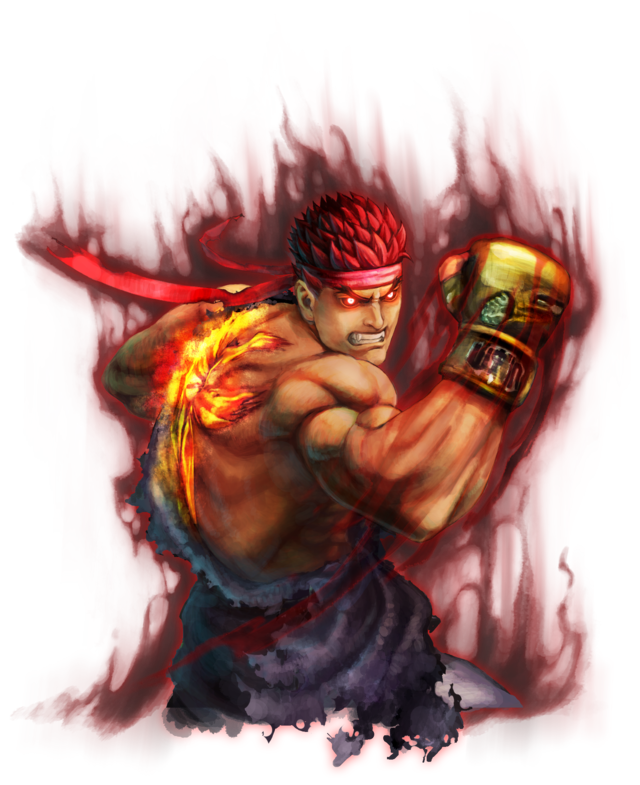
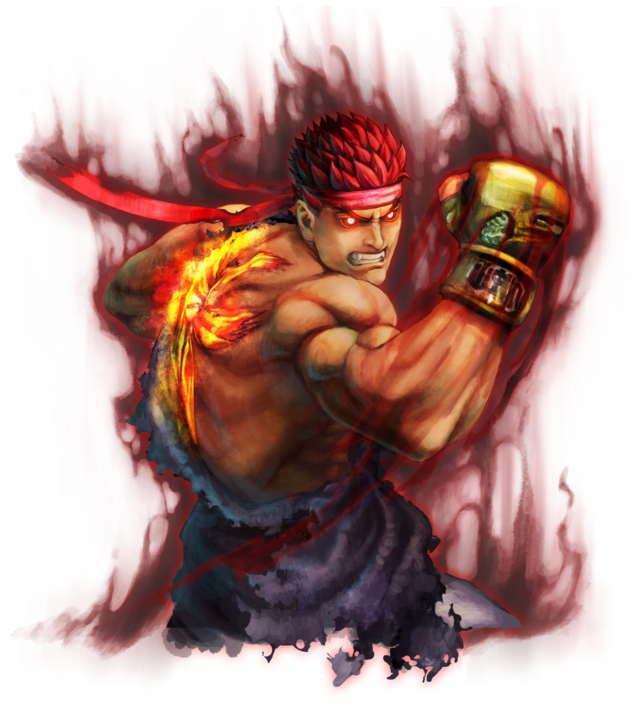
switches between to Ryu

diff --git a/index.html b/index.html
@@ -6,12 +6,14 @@
   <title>Résumé</title>
   <link rel="stylesheet" href="https://volodymyrkushnir.com/assets/stylesheets/base.css">
   <link rel="stylesheet" href="styles/styles.css">
+  <script src="javascript/script.js"></script>
 </head>
 
 <body>
   <main>
     <div class="wave">
-      <div class="evil-image"></div>
+      <div class="evil-image generic-image" onclick="Func()" id="pic1"></div>
+      <div class="kind-image generic-image" onclick="Func()" id="pic2"></div>
       <svg version="1.1" xmlns="http://www.w3.org/2000/svg" xmlns:xlink="http://www.w3.org/1999/xlink" xml:space="preserve" viewBox="414 334 1440 118">
         <path fill="currentColor" d="M1168.4,421.2c266.9,49.9,515.4,28.9,685.6,8.8v-96H414v96C601.3,407.8,844,360.6,1168.4,421.2z"/>
       </svg>
@@ -19,7 +21,7 @@
     <article>
       <div class="page" style="border-color: #aa1616">
         <div class="stackable grid">
-          <div class="row">
+          <div class="row" id="show">
             <div class="avatar-phrases">
               <p>&#128165; I wish you good luck</p>
             </div>
@@ -79,9 +81,74 @@
                 </div>
                 <div class="sixteen wide column">
                   <h2>Resume</h2>
-                  <p>&mdash;― I do not compete with others, the only competition that challenges me is myself. As a
+                  <p>&mdash; I do not compete with others, the only competition that challenges me is myself. As a
                     fighter, friend and an employee I am known as contemplative, tortured and driven.
                   </p>
+                </div>
+              </div>
+            </div>
+          </div>
+          <div class="row" id="showSec">
+            <div class="avatar-phrases">
+              <p>&#128165; Attack</p>
+            </div>
+            <div class="three wide center aligned column">
+              <div class="avatar-wrapper">
+                <object class="avatar" data="./images/Evil_Ryu.png" role="img" aria-label="My profile picture"></object>
+              </div>
+            </div>
+            <div class="thirteen wide column">
+              <div class="stackable grid">
+                <div class="sixteen wide column">
+                  <h1>Evil Ryu (リュウ Ryū)</h1>
+                  <div>Evil Fighter</div>
+                  <ul class="contacts">
+                    <li>
+                      <a href="https://www.facebook.com/profile.php?id=100004808958030" rel="nofollow" class="facebook">
+                        <svg class="icon" xmlns="http://www.w3.org/2000/svg" viewBox="0 0 448 512">
+                          <path
+                            d="M448 56.7v398.5c0 13.7-11.1 24.7-24.7 24.7H309.1V306.5h58.2l8.7-67.6h-67v-43.2c0-19.6 5.4-32.9 33.5-32.9h35.8v-60.5c-6.2-.8-27.4-2.7-52.2-2.7-51.6 0-87 31.5-87 89.4v49.9h-58.4v67.6h58.4V480H24.7C11.1 480 0 468.9 0 455.3V56.7C0 43.1 11.1 32 24.7 32h398.5c13.7 0 24.8 11.1 24.8 24.7z" />
+                        </svg>
+                        <span>RyuHoshi</span>
+                      </a>
+                    </li>
+                    <li>
+                      <a href="mailto:ryuwins@gmail.com" rel="nofollow" class="mail">
+                        <svg class="icon" xmlns="http://www.w3.org/2000/svg" viewBox="0 0 512 512">
+                          <path
+                            d="M502.3 190.8c3.9-3.1 9.7-.2 9.7 4.7V400c0 26.5-21.5 48-48 48H48c-26.5 0-48-21.5-48-48V195.6c0-5 5.7-7.8 9.7-4.7 22.4 17.4 52.1 39.5 154.1 113.6 21.1 15.4 56.7 47.8 92.2 47.6 35.7.3 72-32.8 92.3-47.6 102-74.1 131.6-96.3 154-113.7zM256 320c23.2.4 56.6-29.2 73.4-41.4 132.7-96.3 142.8-104.7 173.4-128.7 5.8-4.5 9.2-11.5 9.2-18.9v-19c0-26.5-21.5-48-48-48H48C21.5 64 0 85.5 0 112v19c0 7.4 3.4 14.3 9.2 18.9 30.6 23.9 40.7 32.4 173.4 128.7 16.8 12.2 50.2 41.8 73.4 41.4z">
+                          </path>
+                        </svg>
+                        <span>ryuwins@gmail.com</span>
+                      </a>
+                    </li>
+                    <li>
+                      <a href="https://twitter.com/denjinryu" rel="nofollow" class="twitter">
+                        <svg class="icon" height="16" viewBox="0 0 22 22" width="16" xmlns="http://www.w3.org/2000/svg">
+                          <path
+                            d="M22.46,6C21.69,6.35 20.86,6.58 20,6.69C20.88,6.16 21.56,5.32 21.88,4.31C21.05,4.81 20.13,5.16 19.16,5.36C18.37,4.5 17.26,4 16,4C13.65,4 11.73,5.92 11.73,8.29C11.73,8.63 11.77,8.96 11.84,9.27C8.28,9.09 5.11,7.38 3,4.79C2.63,5.42 2.42,6.16 2.42,6.94C2.42,8.43 3.17,9.75 4.33,10.5C3.62,10.5 2.96,10.3 2.38,10C2.38,10 2.38,10 2.38,10.03C2.38,12.11 3.86,13.85 5.82,14.24C5.46,14.34 5.08,14.39 4.69,14.39C4.42,14.39 4.15,14.36 3.89,14.31C4.43,16 6,17.26 7.89,17.29C6.43,18.45 4.58,19.13 2.56,19.13C2.22,19.13 1.88,19.11 1.54,19.07C3.44,20.29 5.7,21 8.12,21C16,21 20.33,14.46 20.33,8.79C20.33,8.6 20.33,8.42 20.32,8.23C21.16,7.63 21.88,6.87 22.46,6Z" />
+                        </svg>
+                        <span>@DenjinRyu</span>
+                      </a>
+                    </li>
+                    <li>
+                      <a href="https://www.instagram.com/sworn_ryu/" rel="nofollow" class="instagram">
+                        <svg class="icon" fill="#000000" height="16" viewBox="0 0 22 22" width="16"
+                          xmlns="http://www.w3.org/2000/svg">
+                          <path
+                            d="M7.8,2H16.2C19.4,2 22,4.6 22,7.8V16.2A5.8,5.8 0 0,1 16.2,22H7.8C4.6,22 2,19.4 2,16.2V7.8A5.8,5.8 0 0,1 7.8,2M7.6,4A3.6,3.6 0 0,0 4,7.6V16.4C4,18.39 5.61,20 7.6,20H16.4A3.6,3.6 0 0,0 20,16.4V7.6C20,5.61 18.39,4 16.4,4H7.6M17.25,5.5A1.25,1.25 0 0,1 18.5,6.75A1.25,1.25 0 0,1 17.25,8A1.25,1.25 0 0,1 16,6.75A1.25,1.25 0 0,1 17.25,5.5M12,7A5,5 0 0,1 17,12A5,5 0 0,1 12,17A5,5 0 0,1 7,12A5,5 0 0,1 12,7M12,9A3,3 0 0,0 9,12A3,3 0 0,0 12,15A3,3 0 0,0 15,12A3,3 0 0,0 12,9Z" />
+                        </svg>
+                        <span>sworn_ryu</span>
+                      </a>
+                    </li>
+                  </ul>
+                </div>
+                <div class="sixteen wide mobile only column">
+                  <div class="divider"></div>
+                </div>
+                <div class="sixteen wide column">
+                  <h2>Resume</h2>
+                  <p>&mdash; In the Street Fighter, Evil Ryu is cold and conceited and is obsessed with fighting in order to prove he is the strongest.</p>
                 </div>
               </div>
             </div>

diff --git a/styles/styles.sass b/styles/styles.sass
@@ -8,16 +8,20 @@
     left: 0
     top: 0
     width: 100%
-    .evil-image
+    .generic-image
+        cursor: pointer
         height: 100%
         width: 640px
         position: absolute
         bottom: 0
         left: 50%
         transform: translate(-50%, 0)
-        background: currentColor url(/images/Evil_Ryu.png)
         background-repeat: no-repeat
         background-position: center
+    .evil-image
+        background: currentColor url(/images/Evil_Ryu.png)
+    .kind-image
+        background: currentColor url(/images/Ryu.png)
     svg
         display: block
         position: relative
@@ -48,6 +52,15 @@
         &::after
             content: ""
             animation: text 5s linear infinite
+
+.grid > .row > [class*="thirteen wide"].column
+    width: 80.25% !important
+
+#showSec
+    display: none
+
+#pic2
+    display: none
 
 @keyframes text
     0%

diff --git a/styles/styles.css b/styles/styles.css
@@ -11,7 +11,8 @@
   width: 100%;
 }
 
-.wave .evil-image {
+.wave .generic-image {
+  cursor: pointer;
   height: 100%;
   width: 640px;
   position: absolute;
@@ -19,9 +20,16 @@
   left: 50%;
   -webkit-transform: translate(-50%, 0);
           transform: translate(-50%, 0);
-  background: currentColor url(/images/Evil_Ryu.png);
   background-repeat: no-repeat;
   background-position: center;
+}
+
+.wave .evil-image {
+  background: currentColor url(/images/Evil_Ryu.png);
+}
+
+.wave .kind-image {
+  background: currentColor url(/images/Ryu.png);
 }
 
 .wave svg {
@@ -65,6 +73,18 @@
   content: "";
   -webkit-animation: text 5s linear infinite;
           animation: text 5s linear infinite;
+}
+
+.grid > .row > [class*="thirteen wide"].column {
+  width: 80.25% !important;
+}
+
+#showSec {
+  display: none;
+}
+
+#pic2 {
+  display: none;
 }
 
 @-webkit-keyframes text {

diff --git a/javascript/script.js b/javascript/script.js
@@ -1,0 +1,18 @@
+function Func() {
+    var x = document.getElementById("show")
+    var y = document.getElementById("showSec");
+
+    var pic1 = document.getElementById("pic1");
+    var pic2 = document.getElementById("pic2");
+    if (x.style.display === "none") {
+      x.style.display = "block";
+      y.style.display = "none";
+      pic1.style.display = "block";
+      pic2.style.display = "none";
+    } else {
+      x.style.display = "none";
+      y.style.display = "block";
+      pic1.style.display = "none"
+      pic2.style.display = "block";
+    }
+  }
